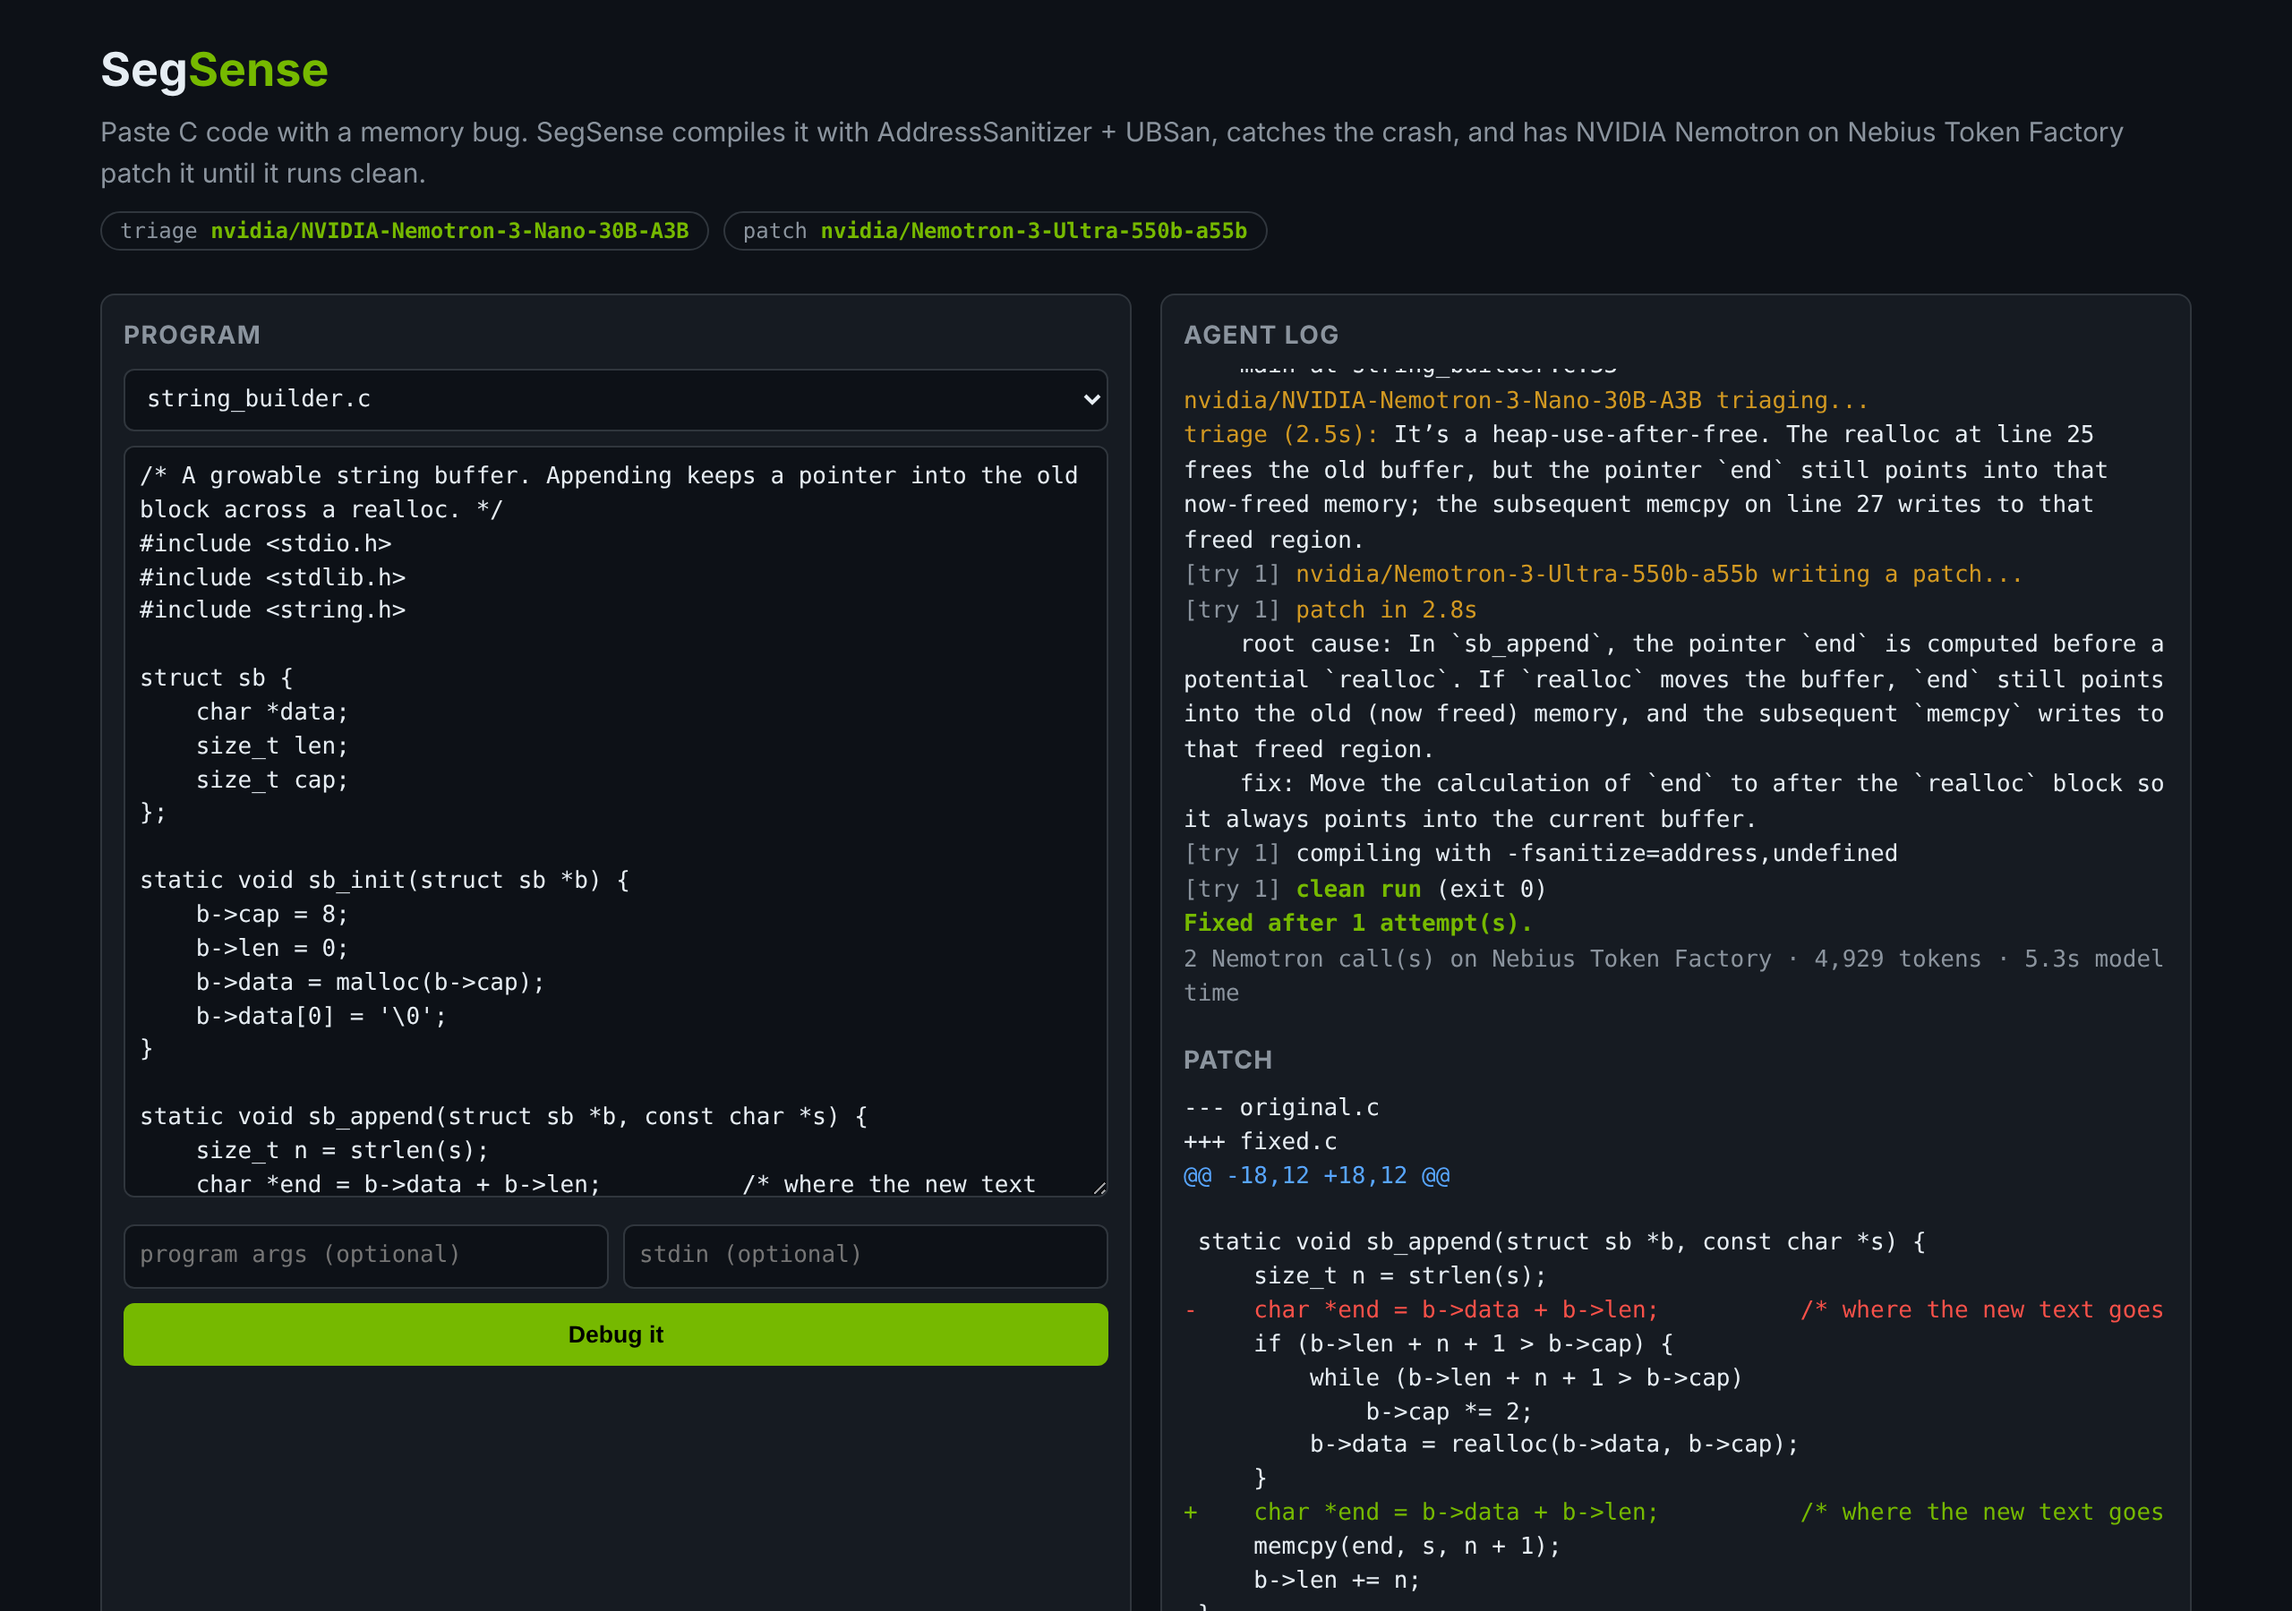
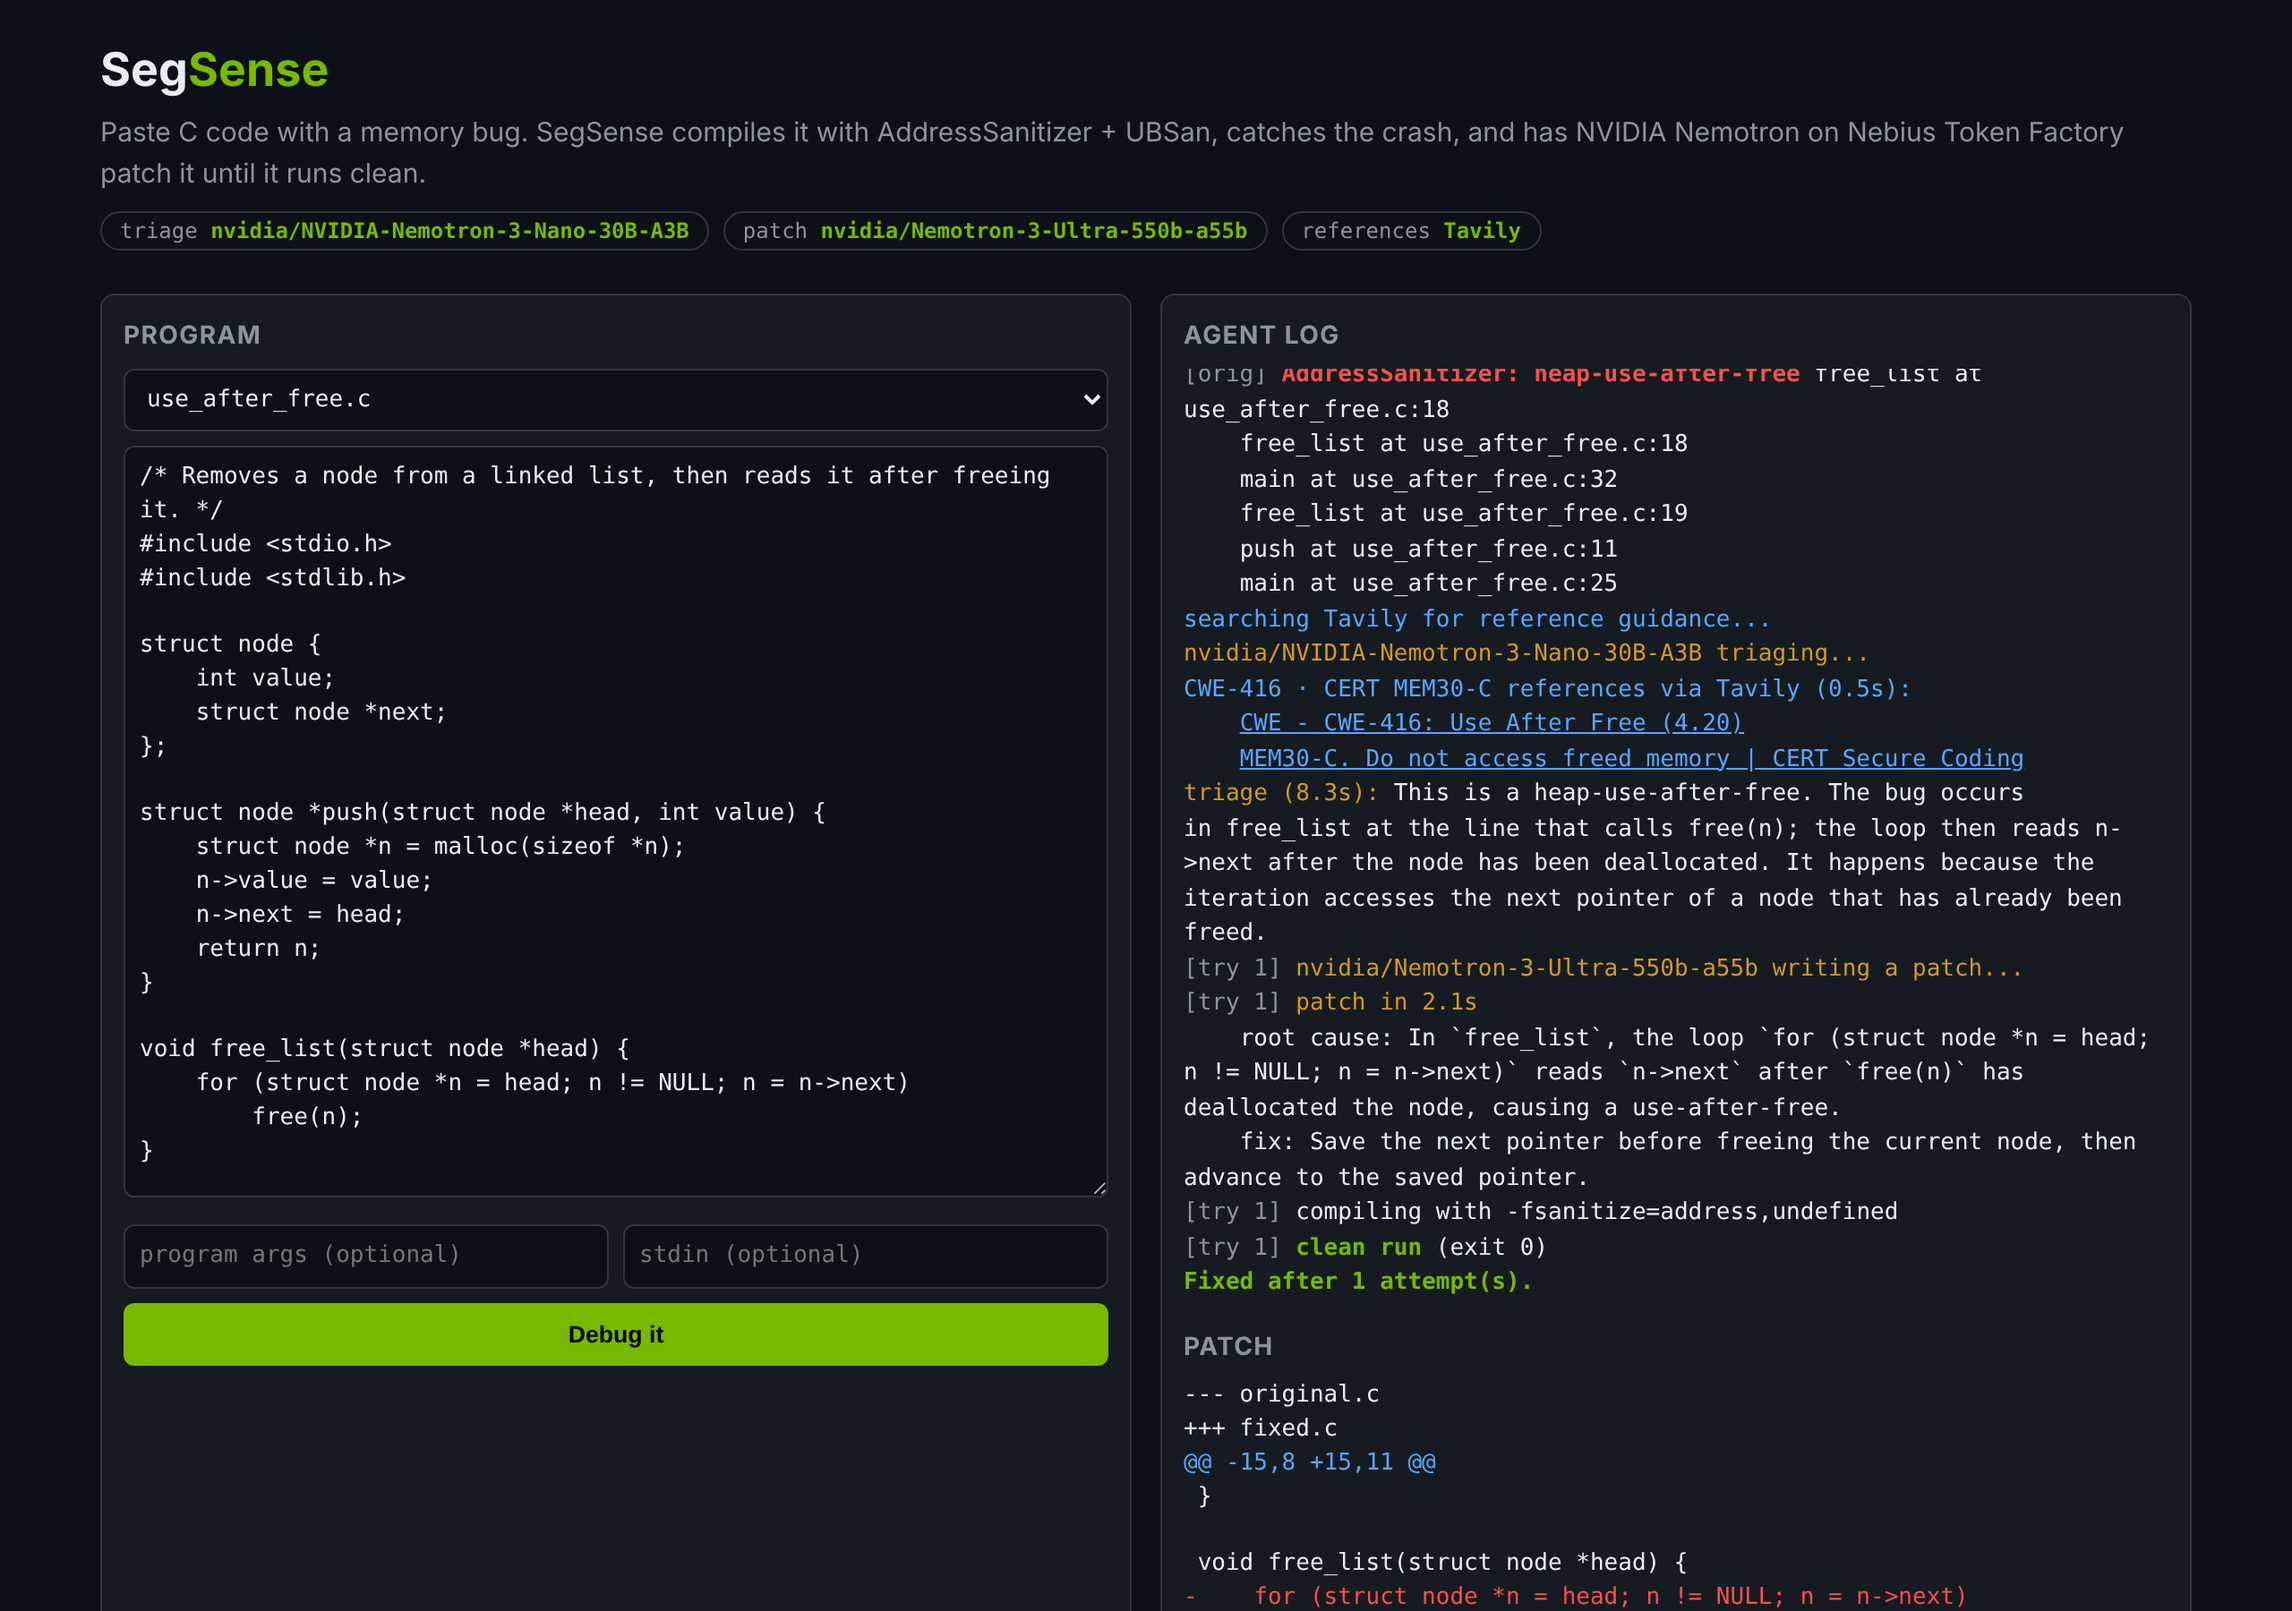
Point README and submission kit at the new demo video (with Tavily)
New 2:35 video: https://www.youtube.com/watch?v=NkiM_M_79AE. Refreshes the
README screenshot to show the CWE / CERT C references and the video
thumbnail.

diff --git a/SUBMISSION.md b/SUBMISSION.md
@@ -170,7 +170,7 @@ Each hackathon rule, and where SegSense meets it.
 | Working project | ✅ | All 8 examples fixed on real Nemotron; tests pass in CI |
 | Project description: what, why, how | ✅ | *What we built*, *Why we built it* and *How it works* above |
 | Working demo URL | ✅ | https://segsense.onrender.com (Render, from `render.yaml`) |
-| Demo video, public YouTube, ≤ 3 min | ✅ | https://www.youtube.com/watch?v=BUggEDYtdGw (2:17) |
+| Demo video, public YouTube, ≤ 3 min | ✅ | https://www.youtube.com/watch?v=NkiM_M_79AE (2:35) |
 | Public repository | ✅ | github.com/Blop77/SegSense is public |
 | Open source license shown at the top of the repo | ✅ | MIT, which GitHub detects |
 | README with setup and run instructions | ✅ | README: *Setup*, *Usage*, *Web demo*, *Deploy* |
@@ -186,7 +186,7 @@ Each hackathon rule, and where SegSense meets it.
 - [x] Repository is **public**, and the MIT license shows at the top of the repo page
 - [x] `main` contains the code
 - [x] Demo URL: https://segsense.onrender.com (hosted on Render with `SEGSENSE_EXAMPLES_ONLY=1`)
-- [x] Demo video: https://www.youtube.com/watch?v=BUggEDYtdGw (2:17)
+- [x] Demo video: https://www.youtube.com/watch?v=NkiM_M_79AE (2:35)
 - [ ] Track: Coding and Agentic Engineering
 - [ ] Description, NVIDIA and Nebius usage, and feedback pasted from this file
 - [ ] City chosen, if you attended a Builders & Brews event

diff --git a/README.md b/README.md
@@ -3,9 +3,9 @@
 [![tests](https://github.com/Blop77/SegSense/actions/workflows/tests.yml/badge.svg)](https://github.com/Blop77/SegSense/actions/workflows/tests.yml)
 [![License: MIT](https://img.shields.io/badge/License-MIT-green.svg)](LICENSE)
 
-**▶ Live demo: [segsense.onrender.com](https://segsense.onrender.com)** · **🎬 Demo video: [youtu.be/BUggEDYtdGw](https://www.youtube.com/watch?v=BUggEDYtdGw)**
+**▶ Live demo: [segsense.onrender.com](https://segsense.onrender.com)** · **🎬 Demo video: [youtu.be/NkiM_M_79AE](https://www.youtube.com/watch?v=NkiM_M_79AE)**
 
-[![Watch the SegSense demo video on YouTube (2:17)](docs/video-thumbnail.png)](https://www.youtube.com/watch?v=BUggEDYtdGw)
+[![Watch the SegSense demo video on YouTube (2:35)](docs/video-thumbnail.png)](https://www.youtube.com/watch?v=NkiM_M_79AE)
 
 In the live demo, pick an example and press **Debug it** to watch Nemotron fix it live. It runs on a
 free instance, so the first visit after a quiet period can take about a minute to wake up.
